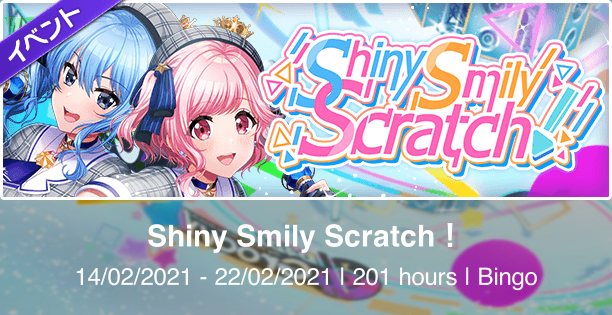
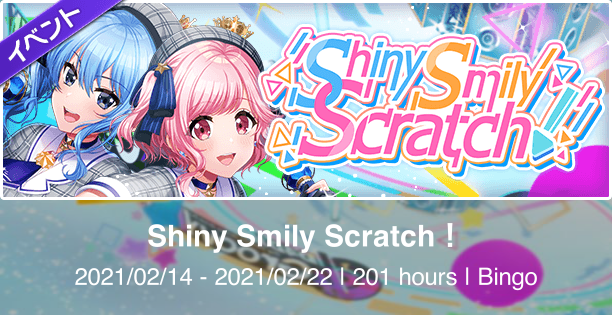
Towa fix date format

Changed region(s): [[0.1242, 0.8286, 0.3105, 0.9143], [0.3725, 0.8286, 0.5588, 0.9143]]

diff --git a/pages/event/[id].tsx b/pages/event/[id].tsx
@@ -162,9 +162,9 @@ export async function getStaticProps({
 
   const desc = `${DateTime.fromISO(event.startdate)
     .setZone("Asia/Tokyo")
-    .toFormat("dd/MM/yyyy HH:mm")}JST - ${DateTime.fromISO(event.enddate)
+    .toFormat("yyyy/MM/dd HH:mm")}JST - ${DateTime.fromISO(event.enddate)
     .setZone("Asia/Tokyo")
-    .toFormat("dd/MM/yyyy HH:mm")}JST | ${Math.round(
+    .toFormat("yyyy/MM/dd HH:mm")}JST | ${Math.round(
     DateTime.fromISO(event.enddate)
       .diff(DateTime.fromISO(event.startdate))
       .as("hours")

diff --git a/scripts/generateEventBanner.ts b/scripts/generateEventBanner.ts
@@ -45,9 +45,9 @@ export const generateEventBanner = async (event: Event) => {
   );
   const desc = `${DateTime.fromISO(event.startdate)
     .setZone("Asia/Tokyo")
-    .toFormat("dd/MM/yyyy")} - ${DateTime.fromISO(event.enddate)
+    .toFormat("yyyy/MM/dd")} - ${DateTime.fromISO(event.enddate)
     .setZone("Asia/Tokyo")
-    .toFormat("dd/MM/yyyy")} | ${Math.round(
+    .toFormat("yyyy/MM/dd")} | ${Math.round(
     DateTime.fromISO(event.enddate)
       .diff(DateTime.fromISO(event.startdate))
       .as("hours")

diff --git a/src/components/EventDetails.tsx b/src/components/EventDetails.tsx
@@ -18,8 +18,8 @@ export const EventDetails = memo(
     return (
       <Text textAlign={align || "start"}>
         <Text as="span" mr={2}>
-          {DateTime.fromISO(event.startdate).toFormat("dd/MM/yyyy HH:mm")} -{" "}
-          {DateTime.fromISO(event.enddate).toFormat("dd/MM/yyyy HH:mm")}
+          {DateTime.fromISO(event.startdate).toFormat("yyyy/MM/dd  HH:mm")} -{" "}
+          {DateTime.fromISO(event.enddate).toFormat("yyyy/MM/dd HH:mm")}
         </Text>{" "}
         |
         <Text as="span" ml={2}>
